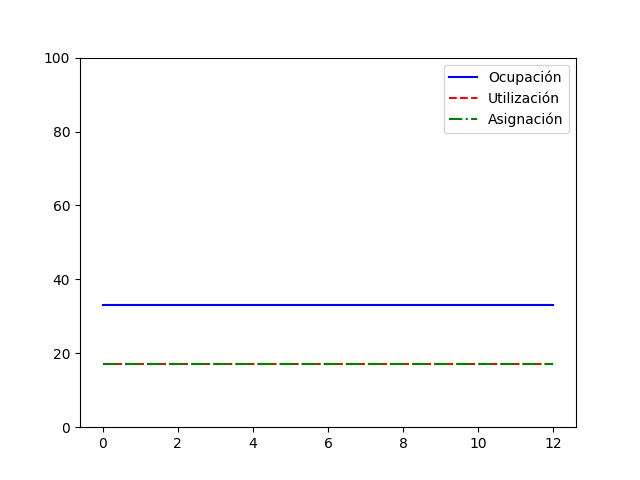
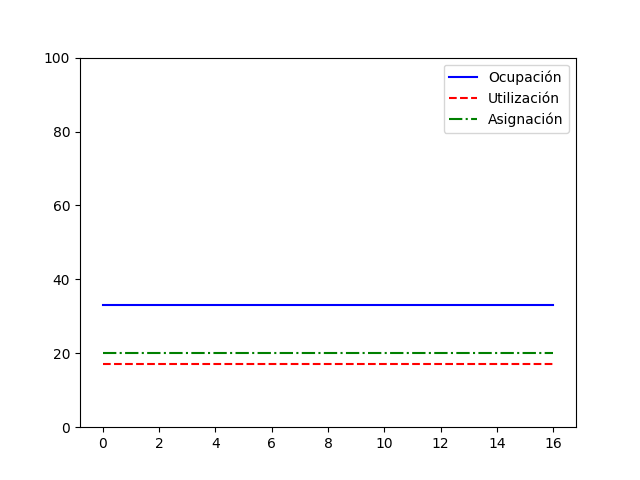
progress

diff --git a/cluster-trace-gpu-v2023/hack/true-utilization.py b/cluster-trace-gpu-v2023/hack/true-utilization.py
@@ -81,18 +81,23 @@ def k8s_watch_thread():
 
     global ALL_NODES
     global LAST_POD
+    global INICIO
+
     V100Fp32 = 14000
-    V100Mem = 1600
+    V100Mem = 16000
     totalGpusFp32Used = 0
     totalGpusMemUsed = 0
     podCont = 0
     amountPods = []
     realDurationPods = []
     theoryDurationPods = []
+    podsAdded = []
     realCreationTimeName = 'realCreationTime'
     realDeletionTimeName = 'realDeletionTime'
     theoryCreationTimeName = 'customresource.com/creation-time'
     theoryDeletionTimeName = 'customresource.com/deletion-time'
+    contADD = 0
+    contDEL = 0
 
     config.load_kube_config()
     v1 = client.CoreV1Api()
@@ -104,45 +109,52 @@ def k8s_watch_thread():
                 tipo = event['type']
                 pod = event['object']
 
-                if tipo == 'MODIFIED':
-                    continue
-
                 annotations = pod.metadata.annotations
-                if annotations is None or GPU_POS_NAME not in annotations:
-                    continue
+
+                if annotations is None:
+                    continue                    
                 
                 podName = pod.metadata.name
+
+                if tipo == 'ADDED':
+                    podsAdded.append(podName)
+
                 nodeName = pod.spec.node_name
                 gpuPos = int(pod.metadata.annotations[GPU_POS_NAME])
+                migSize = pod.metadata.annotations[MIG_SIZE_NAME]
                 podFp32 = request_with_to_int(pod.spec.containers[0].resources.requests["customresource.com/gpufp32"])
                 podMem = request_with_to_int(pod.spec.containers[0].resources.requests["customresource.com/gpuMemory"])
                 isolation = False
                 migSize = ''
 
-                if MIG_SIZE_NAME in annotations:
-                    migSize = pod.metadata.annotations[MIG_SIZE_NAME]
+                print(f"migSize: {migSize}")
+                print(f" gpuPos: {pod.metadata.annotations[GPU_POS_NAME]}")
 
                 if V100Fp32 == podFp32 and V100Mem == podMem:
                     isolation = True
-                
+
                 with data_lock:
-                    if tipo == 'ADDED': # or tipo == 'MODIFIED':
+                    if tipo == 'MODIFIED' and podName in podsAdded: # or tipo == 'MODIFIED':
                         ALL_NODES[nodeName][gpuPos][FP32_USED_NAME] += podFp32
                         ALL_NODES[nodeName][gpuPos][MEM_USED_NAME] += podMem
                         totalGpusFp32Used += podFp32
                         totalGpusMemUsed += podMem
+                        INICIO = True
+                        podsAdded.remove(podName)
+                        contADD += 1
 
                     elif tipo == 'DELETED':
                         ALL_NODES[nodeName][gpuPos][FP32_USED_NAME] -= podFp32
                         ALL_NODES[nodeName][gpuPos][MEM_USED_NAME] -= podMem
                         totalGpusFp32Used -= podFp32
                         totalGpusMemUsed -= podMem
+                        contDEL += 1
 
                         podCont += 1
                         realCreationTime = int(annotations[realCreationTimeName])
                         realDeletionTime = int(annotations[realDeletionTimeName])
-                        theoryCreationTime = int(annotations[realCreationTimeName])
-                        theoryDeletionTime = int(annotations[realDeletionTimeName])
+                        theoryCreationTime = int(annotations[theoryCreationTimeName])
+                        theoryDeletionTime = int(annotations[theoryDeletionTimeName])
 
                         amountPods.append(podCont)
                         realDurationPods.append(realDeletionTime - realCreationTime)
@@ -151,6 +163,9 @@ def k8s_watch_thread():
                         if podName == LAST_POD_NAME:
                             LAST_POD = True
 
+                    if LAST_POD:
+                        print(f"totalGpusFp32Used: {totalGpusFp32Used}, totalGpusMemUsed: {totalGpusMemUsed}")
+                        print(f"contADD: {contADD}, contDEL: {contDEL}")
                     if LAST_POD and totalGpusFp32Used == 0 and totalGpusMemUsed == 0:
                         plt.figure(1)
                         plt.plot(amountPods, realDurationPods, label='real duration', linestyle='-')
@@ -158,13 +173,8 @@ def k8s_watch_thread():
                         plt.xticks(range(min(amountPods), max(amountPods) + 1))
                         plt.legend()
                         plt.savefig("plots/duration_pods.png")
-                        
-                    # print(f"nodeName: {'kwok-node-1'}, Fp32: {ALL_NODES['kwok-node-1'][gpuPos][FP32_USED_NAME]}, Mem: {ALL_NODES['kwok-node-1'][gpuPos][MEM_USED_NAME]}")
-                                            
+                                                                    
                     calculate_allocated(nodeName, gpuPos, tipo, podFp32, podMem, isolation, migSize)
-
-                # print(f"fp32_used: {ALL_NODES[nodeName][gpuPos][FP32_USED_NAME]}, mem_used: {ALL_NODES[nodeName][gpuPos][MEM_USED_NAME]}")
-                # print(f"Usage: {ALL_NODES[nodeName][gpuPos][USAGE_NAME]}, Allocated: {ALL_NODES[nodeName][gpuPos][ALLOCATED_NAME]}")
 
         except Exception as e:
             print(f"Error en Watcher: {e}. Reintentando...")
@@ -179,7 +189,7 @@ def saver_thread():
     global LAST_POD
 
     fp32Total, memTotal, gpuTotal = total_memory_fp32_gpu()
-    print(f"gpuTotal: {gpuTotal}")
+
     gpuUtilization = []
     gpuAllocated = []
     gpuOccupation = []
@@ -190,9 +200,12 @@ def saver_thread():
     gpuAllocatedMem = []
     INIT_TIME = int(time.time())
 
-    # print(f"fp32Total: {fp32Total}, memTotal: {memTotal}")
-
     while True:   
+
+        time.sleep(WAIT_TIME)
+
+        if not INICIO:
+            continue
 
         fp32Used = 0
         memUsed = 0
@@ -210,8 +223,6 @@ def saver_thread():
 
                     if gpu[FP32_USED_NAME] != 0 or gpu[MEM_USED_NAME] != 0: 
                         numGpuOccuped += 1
-
-            print(f"fp32Used: {fp32Used}, memUsed: {memUsed}, fp32Allocated: {fp32Allocated}, memAllocated: {memAllocated}")
 
             if LAST_POD and numGpuOccuped == 0:
                 plt.figure(2)
@@ -250,10 +261,6 @@ def saver_thread():
         gpuAllocatedMem.append(AllocatedMemRatio)
 
         timeline.append(int(time.time() - INIT_TIME))
-        # print(f"Utilization: {Utilization}, Allocated: {Allocated}")
-        print(f"Occupation: {Occupation}, numGpuOccuped: {numGpuOccuped}")
-            
-        time.sleep(WAIT_TIME)
 
 if __name__ == "__main__":
 
@@ -270,6 +277,8 @@ if __name__ == "__main__":
     LAST_POD = False
     WAIT_TIME = 4
     FIN = False
+    INICIO = False
+
     data_lock = threading.Lock()
 
     try:

diff --git a/cluster-trace-gpu-v2023/hack/podkiller.py b/cluster-trace-gpu-v2023/hack/podkiller.py
@@ -114,7 +114,7 @@ def main():
             )
 
             if LAST_POD and len(pods.items) == 0:
-                print(f"Tiempo total: {int(time.time()) - INITIAL_TIME}")
+                print(f"Tiempo total del workload: {int(time.time()) - INITIAL_TIME}")
                 sys.exit()
 
             # 3. Procesar cada Pod
